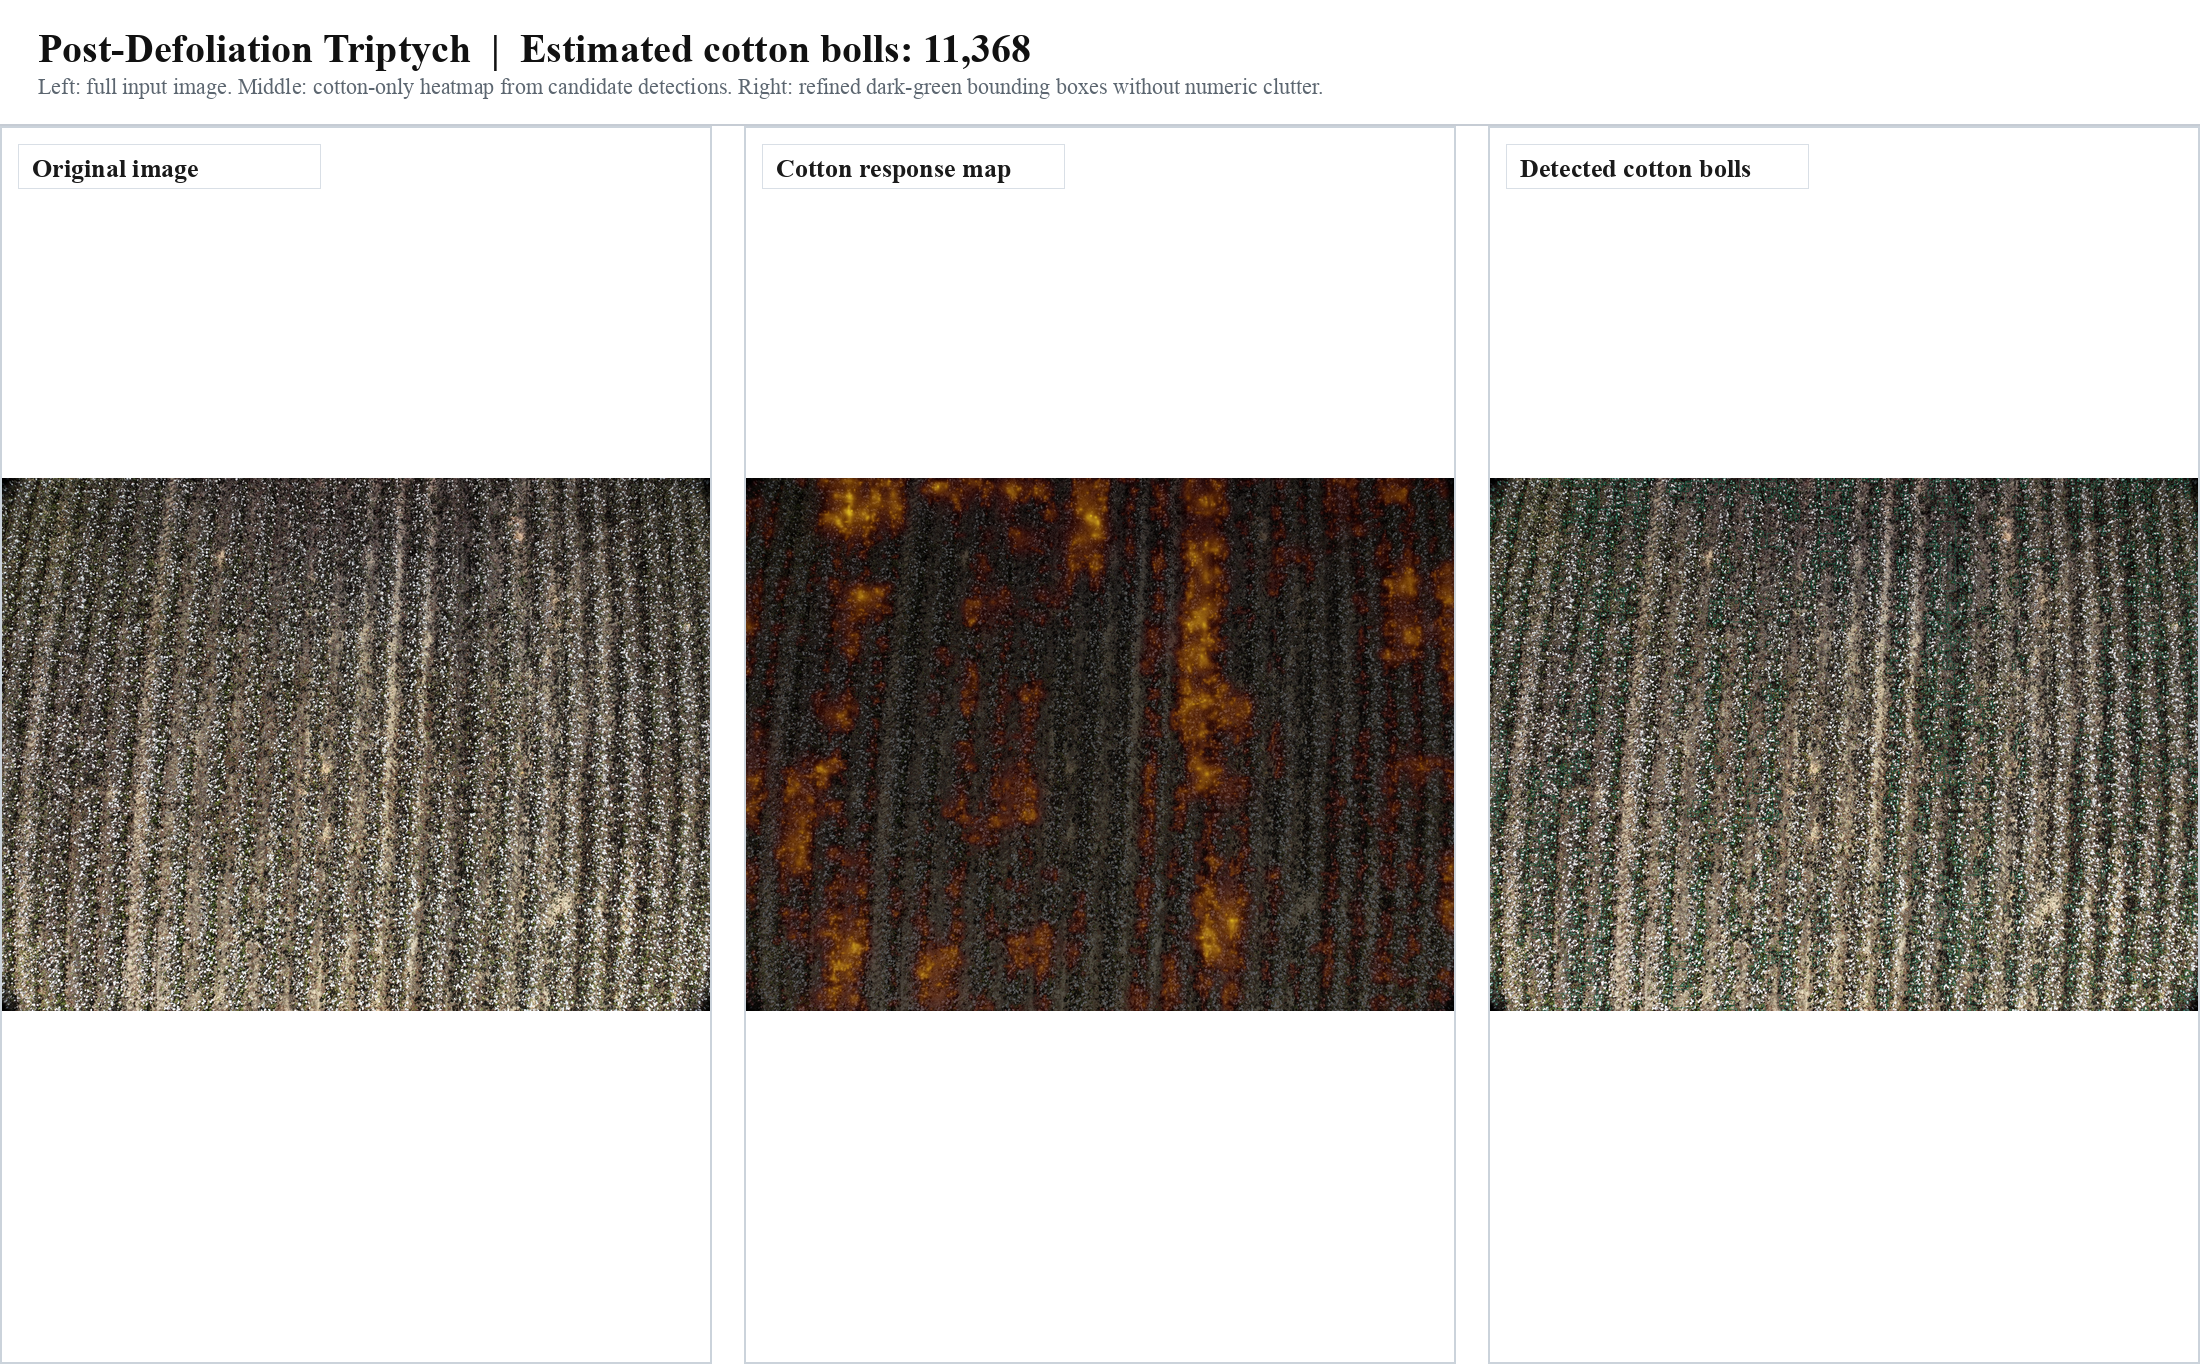
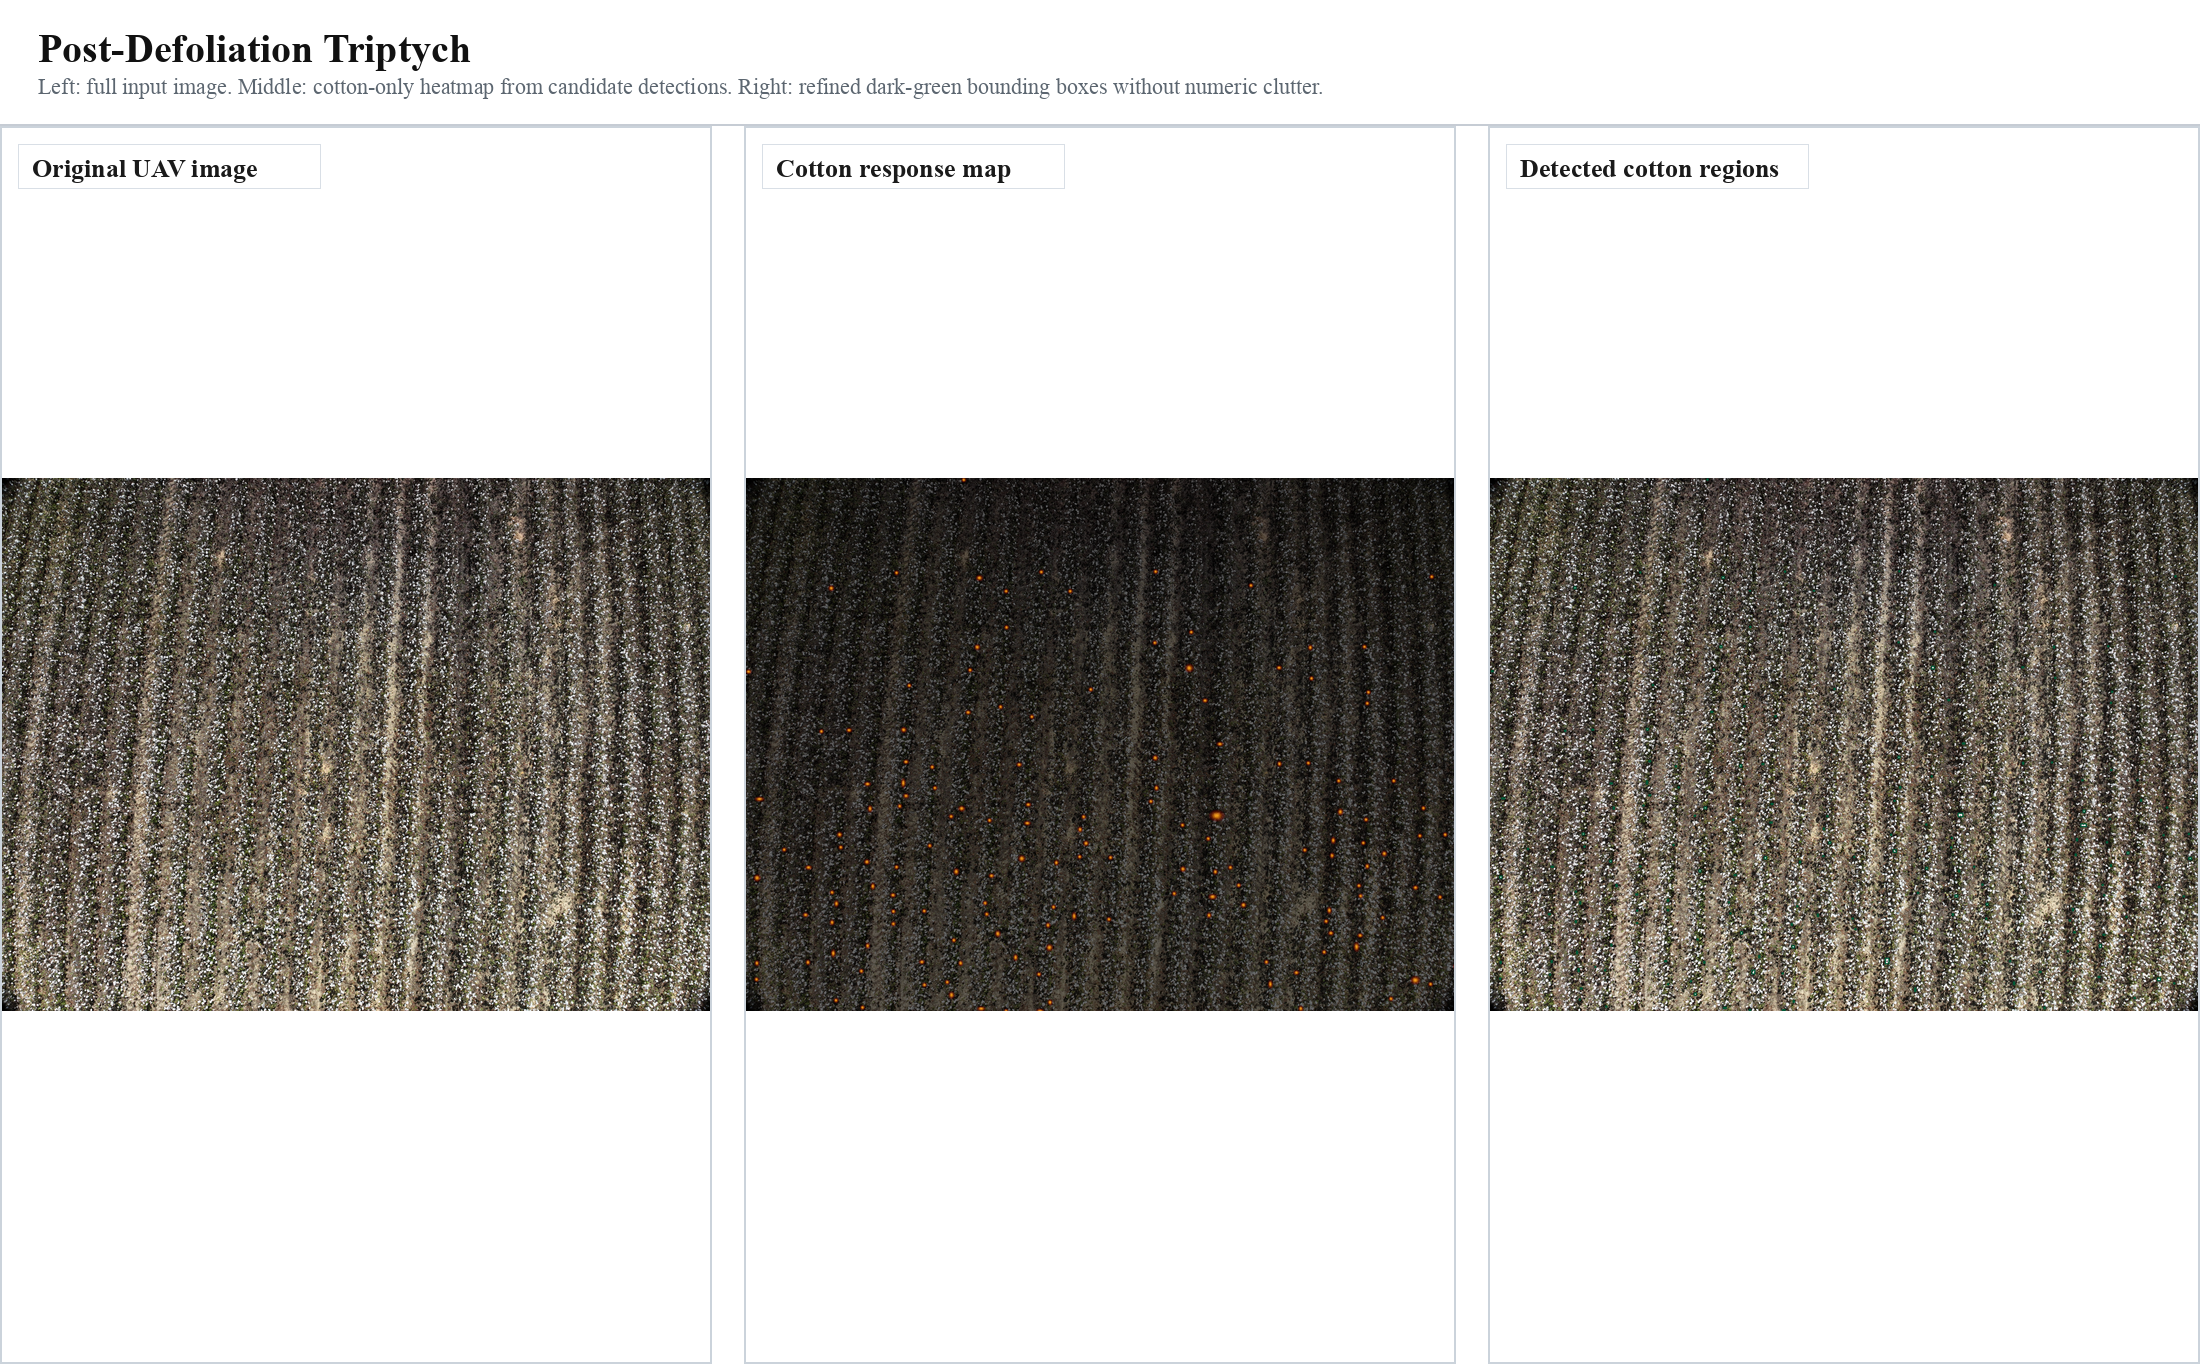
Refine cotton response and detection figure assets

diff --git a/scripts/prepare_cvpr_demo_assets.py b/scripts/prepare_cvpr_demo_assets.py
@@ -176,17 +176,84 @@ def gaussian_heatmap(shape: tuple[int, int], boxes: list[tuple[int, int, int, in
     return np.clip(heat, 0.0, 1.0)
 
 
+def score_boxes(base_rgb: np.ndarray, boxes: list[tuple[int, int, int, int]]) -> list[tuple[float, tuple[int, int, int, int]]]:
+    rgb = base_rgb.astype(np.float32) / 255.0
+    gray = rgb.mean(axis=2)
+    scored: list[tuple[float, tuple[int, int, int, int]]] = []
+    for box in boxes:
+        x_pos, y_pos, box_w, box_h = box
+        x1 = min(base_rgb.shape[1], x_pos + box_w)
+        y1 = min(base_rgb.shape[0], y_pos + box_h)
+        patch_rgb = rgb[y_pos:y1, x_pos:x1]
+        patch_gray = gray[y_pos:y1, x_pos:x1]
+        if patch_rgb.size == 0:
+            continue
+        whiteness = float(patch_gray.mean())
+        local_contrast = float(patch_gray.std())
+        green_penalty = float(np.maximum(0.0, patch_rgb[:, :, 1].mean() - patch_rgb[:, :, 0].mean()))
+        score = whiteness + (0.55 * local_contrast) - (0.35 * green_penalty)
+        scored.append((score, box))
+    scored.sort(key=lambda item: item[0], reverse=True)
+    return scored
+
+
+def iou(box_a: tuple[int, int, int, int], box_b: tuple[int, int, int, int]) -> float:
+    ax, ay, aw, ah = box_a
+    bx, by, bw, bh = box_b
+    ax1, ay1 = ax + aw, ay + ah
+    bx1, by1 = bx + bw, by + bh
+    ix0, iy0 = max(ax, bx), max(ay, by)
+    ix1, iy1 = min(ax1, bx1), min(ay1, by1)
+    if ix1 <= ix0 or iy1 <= iy0:
+        return 0.0
+    inter = float((ix1 - ix0) * (iy1 - iy0))
+    union = float(aw * ah + bw * bh - inter)
+    return inter / max(union, 1.0)
+
+
+def select_salient_boxes(
+    base_rgb: np.ndarray,
+    boxes: list[tuple[int, int, int, int]],
+    *,
+    max_boxes: int = 180,
+    min_center_gap: int = 20,
+) -> list[tuple[int, int, int, int]]:
+    chosen: list[tuple[int, int, int, int]] = []
+    for _, box in score_boxes(base_rgb, boxes):
+        x_pos, y_pos, box_w, box_h = box
+        cx = x_pos + box_w / 2.0
+        cy = y_pos + box_h / 2.0
+        keep = True
+        for prev in chosen:
+            px, py, pw, ph = prev
+            pcx = px + pw / 2.0
+            pcy = py + ph / 2.0
+            if ((cx - pcx) ** 2 + (cy - pcy) ** 2) ** 0.5 < min_center_gap:
+                keep = False
+                break
+            if iou(box, prev) > 0.10:
+                keep = False
+                break
+        if keep:
+            chosen.append(box)
+        if len(chosen) >= max_boxes:
+            break
+    return chosen
+
+
 def build_cotton_heatmap(base_rgb: np.ndarray, boxes: list[tuple[int, int, int, int]]) -> Image.Image:
-    heat = gaussian_heatmap(base_rgb.shape[:2], boxes)
-    darkened = (base_rgb.astype(np.float32) * 0.38).astype(np.uint8)
+    salient_boxes = select_salient_boxes(base_rgb, boxes, max_boxes=150, min_center_gap=26)
+    heat = gaussian_heatmap(base_rgb.shape[:2], salient_boxes)
+    heat = np.where(heat > 0.16, heat, 0.0)
+    darkened = (base_rgb.astype(np.float32) * 0.42).astype(np.uint8)
 
     # Red-yellow hotspot map restricted to detected cotton regions.
-    red = np.clip(255 * (heat ** 0.45), 0, 255)
-    green = np.clip(220 * np.maximum(0.0, heat - 0.22) / 0.78, 0, 255)
-    blue = np.clip(40 * np.maximum(0.0, heat - 0.55) / 0.45, 0, 255)
+    red = np.clip(255 * (heat ** 0.52), 0, 255)
+    green = np.clip(165 * np.maximum(0.0, heat - 0.28) / 0.72, 0, 255)
+    blue = np.clip(20 * np.maximum(0.0, heat - 0.65) / 0.35, 0, 255)
     hotspot = np.stack([red, green, blue], axis=-1).astype(np.uint8)
 
-    alpha = np.clip(heat[..., None] * 0.9, 0.0, 0.9)
+    alpha = np.clip((heat ** 0.85)[..., None] * 0.92, 0.0, 0.92)
     blended = np.clip(darkened * (1.0 - alpha) + hotspot * alpha, 0, 255).astype(np.uint8)
     return Image.fromarray(blended, mode="RGB")
 
@@ -201,7 +268,12 @@ def build_detection_view(image: Image.Image, label: str) -> tuple[Image.Image, l
         thickness=3,
         shrink_factor=0.78,
     )
-    return Image.fromarray(annotated), boxes, estimated_total
+    salient_boxes = select_salient_boxes(image_np, boxes, max_boxes=170, min_center_gap=24)
+    clean = image_np.copy()
+    overlay_color = (0, 88, 54)
+    for x_pos, y_pos, box_w, box_h in salient_boxes:
+        cv2.rectangle(clean, (x_pos, y_pos), (x_pos + box_w, y_pos + box_h), overlay_color, 2)
+    return Image.fromarray(clean), salient_boxes, estimated_total
 
 
 def add_academic_header(image: Image.Image, title: str, subtitle: str) -> Image.Image:
@@ -231,15 +303,15 @@ def save_heat_panel(source: Path, label: str, title: str, subtitle: str, output_
 
 def build_triptych(source: Path, label: str, title: str, subtitle: str, output_name: str) -> None:
     image = open_full_image(source)
-    detection_view, boxes, estimated_total = build_detection_view(image, label)
+    detection_view, boxes, _ = build_detection_view(image, label)
     heatmap_view = build_cotton_heatmap(np.asarray(image), boxes)
 
     panel_w = (CANVAS_SIZE[0] - (PANEL_GAP * 2)) // 3
     panel_h = CANVAS_SIZE[1]
     panels = [
-        ("Original image", contain_on_canvas(image, (panel_w, panel_h))),
+        ("Original UAV image", contain_on_canvas(image, (panel_w, panel_h))),
         ("Cotton response map", contain_on_canvas(heatmap_view, (panel_w, panel_h))),
-        ("Detected cotton bolls", contain_on_canvas(detection_view, (panel_w, panel_h))),
+        ("Detected cotton regions", contain_on_canvas(detection_view, (panel_w, panel_h))),
     ]
 
     board = Image.new("RGB", CANVAS_SIZE, "white")
@@ -252,8 +324,7 @@ def build_triptych(source: Path, label: str, title: str, subtitle: str, output_n
         draw.rectangle((x_pos + 18, 18, x_pos + 320, 62), fill="white", outline="#d9dfe6", width=1)
         draw.text((x_pos + 32, 27), panel_title, font=label_font, fill="#1a1a1a")
 
-    full_title = f"{title}  |  Estimated cotton bolls: {estimated_total:,}"
-    add_academic_header(board, full_title, subtitle).save(ASSET_DIR / output_name, quality=96)
+    add_academic_header(board, title, subtitle).save(ASSET_DIR / output_name, quality=98)
 
 
 def main() -> None:
@@ -288,8 +359,8 @@ def main() -> None:
     build_triptych(
         PRE_IMAGE,
         "Pre_Defoliation",
-        "Pre-Defoliation Triptych",
-        "Left: full input image. Middle: cotton-only heatmap from candidate detections. Right: refined dark-green bounding boxes without numeric clutter.",
+        "Pre-defoliation scene analysis",
+        "Pre-defoliation scene showing the original UAV image, the model-derived cotton response map, and the refined detection overlay for candidate cotton regions.",
         "pre_triptych.png",
     )
     build_triptych(
